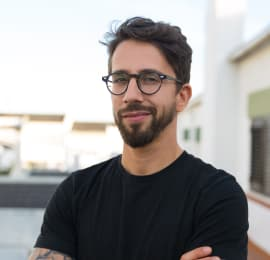
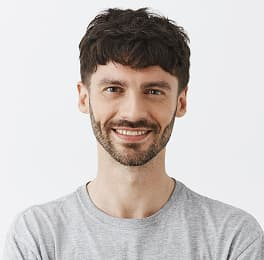
Bug fixes

diff --git a/index.html b/index.html
@@ -12,13 +12,13 @@
             <a href="./index.html">WebStudio</a>
             <ul>
                 <li>
-                    <a href="">Студия</a>
+                    <a href="">Studio</a>
                 </li>
                 <li>
-                    <a href="">Портфолио</a>
+                    <a href="">Portfolio</a>
                 </li>
                 <li>
-                    <a href="">Контакты</a>
+                    <a href="">Contacts</a>
                 </li>
             </ul>
         </nav>
@@ -28,86 +28,66 @@
                     <a href="mailto:info@devstudio.com">info@devstudio.com</a>
                 </li>
                 <li>
-                    <a href="tel:+38096111111">+38 096 111 11 11</a>
+                    <a href="tel:+110001111111">+11 (000) 111-11-11</a>
                 </li>
             </ul>
         </address>
     </header>
     <main>
         <section>
-            <h1>Эффективные решения для вашего бизнеса</h1>
-            <button type="button">Заказать услугу</button>
+            <h1>Effective Solutions for Your Business</h1>
+            <button type="button">Order Service</button>
         </section>
         <section>
-            <h2>Скрытый заголовок</h2>
+            <h2>Hidden Title</h2>
                 <ul>
                     <li>
-                        <h3>Внимание к деталям</h3>
-                        <p>Идейные соображения, а также начало повседневной работы по формированию позиции.</p>
+                        <h3>Strategy</h3>
+                        <p>Our goal is to identify the business problem to walk away with the perfect and creative solution.</p>
                     </li>
                     <li>
-                        <h3>Пунктуальность</h3>
-                        <p>Задача организации, в особенности же рамки и место обучения кадров влечет за собой.</p>
+                        <h3>Punctuality</h3>
+                        <p>Bring the key message to the brand's audience for the best price within the shortest possible time.</p>
                     </li>
                     <li>
-                        <h3>Планирование</h3>
-                        <p>Равным образом консультация с широким активом в значительной степени обуславливает.</p>
+                        <h3>Diligence</h3>
+                        <p>Research and confirm brands with the strongest digital growth opportunities and minimize risk.</p>
                     </li>
                     <li>
-                        <h3>Современные технологии</h3>
-                        <p>Значимость этих проблем настолько очевидна, что реализация плановых заданий.</p>
+                        <h3>Technologies</h3>
+                        <p>Design practice focused on digital experiences. We bring forth a deep passion for problem-solving.</p>
                     </li>
                 </ul>
         </section>
         <section>
-            <h2>Чем мы занимаемся</h2>
-            <ul>
-                <li>
-                    <img
-                     src="./images/img1.jpg"
-                     alt="Набор текста" width="370" height="294">
-                </li>
-                <li>
-                    <img
-                     src="./images/img2.jpg"
-                     alt="Ноутбук" width="370" height="294">
-                </li>
-                <li>
-                    <img
-                     src="./images/img3.jpg" 
-                     alt="Планшет" width="370" height="294">
-                </li>
-            </ul>
-        </section>
-        <section>
-            <h2>Наша команда</h2>
+            <h2>Our Team</h2>
             <ul>
                 <li>
                     <img 
                     src="./images/photo1.jpg" 
-                    alt="Игорь Демьяненко" width="270" height="260">
-                    <h3>Игорь Демьяненко</h3>
+                    alt="Mark Guerrero" width="264" height="260">
+                    <h3>Mark Guerrero</h3>
                     <p>Product Designer</p>
                 </li>
                 <li>
                     <img 
                     src="./images/photo2.jpg" 
-                    alt="Ольга Репина" width="270" height="260">
-                    <h3>Ольга Репина</h3>
+                    alt="Tom Ford" width="264" height="260">
+                    <h3>Tom Ford</h3>
                     <p>Frontend Developer</p>
                 </li>
                 <li>
                     <img 
                     src="./images/photo3.jpg" 
-                    alt="Николай Тарасов" width="270" height="260">
-                    <h3>Николай Тарасов</h3>
+                    alt="Camila Garcia" width="264" height="260">
+                    <h3>Camila Garcia</h3>
                     <p>Marketing</p>
                 </li>
                 <li>
                     <img 
                     src="./images/photo4.jpg" 
-                    alt="Михаил Ермаков" width="270" height="260">
-                    <h3>Михаил Ермаков</h3>
+                    alt="Daniel Wilson" width="264" height="260">
+                    <h3>Daniel Wilson</h3>
                     <p>UI Designer</p>
                 </li>
             </ul>
@@ -115,19 +95,7 @@
     </main>
     <footer>
         <a href="./index.html">WebStudio</a>
-        <address>
-            <ul>
-                <li>
-                    <p>г. Киев, пр-т Леси Украинки, 26</p>
-                </li>
-                <li>
-                    <a href="mailto:info@example.com">info@example.com</a>
-                </li>
-                <li>
-                    <a href="tel:+380991111111">+38 099 111 11 11</a>
-                </li>
-            </ul>
-        </address>
+        <p>Increase the flow of customers and <br/> sales for your business with digital <br /> marketing & growth solutions.</p>
     </footer>
 </body>
 </html>
